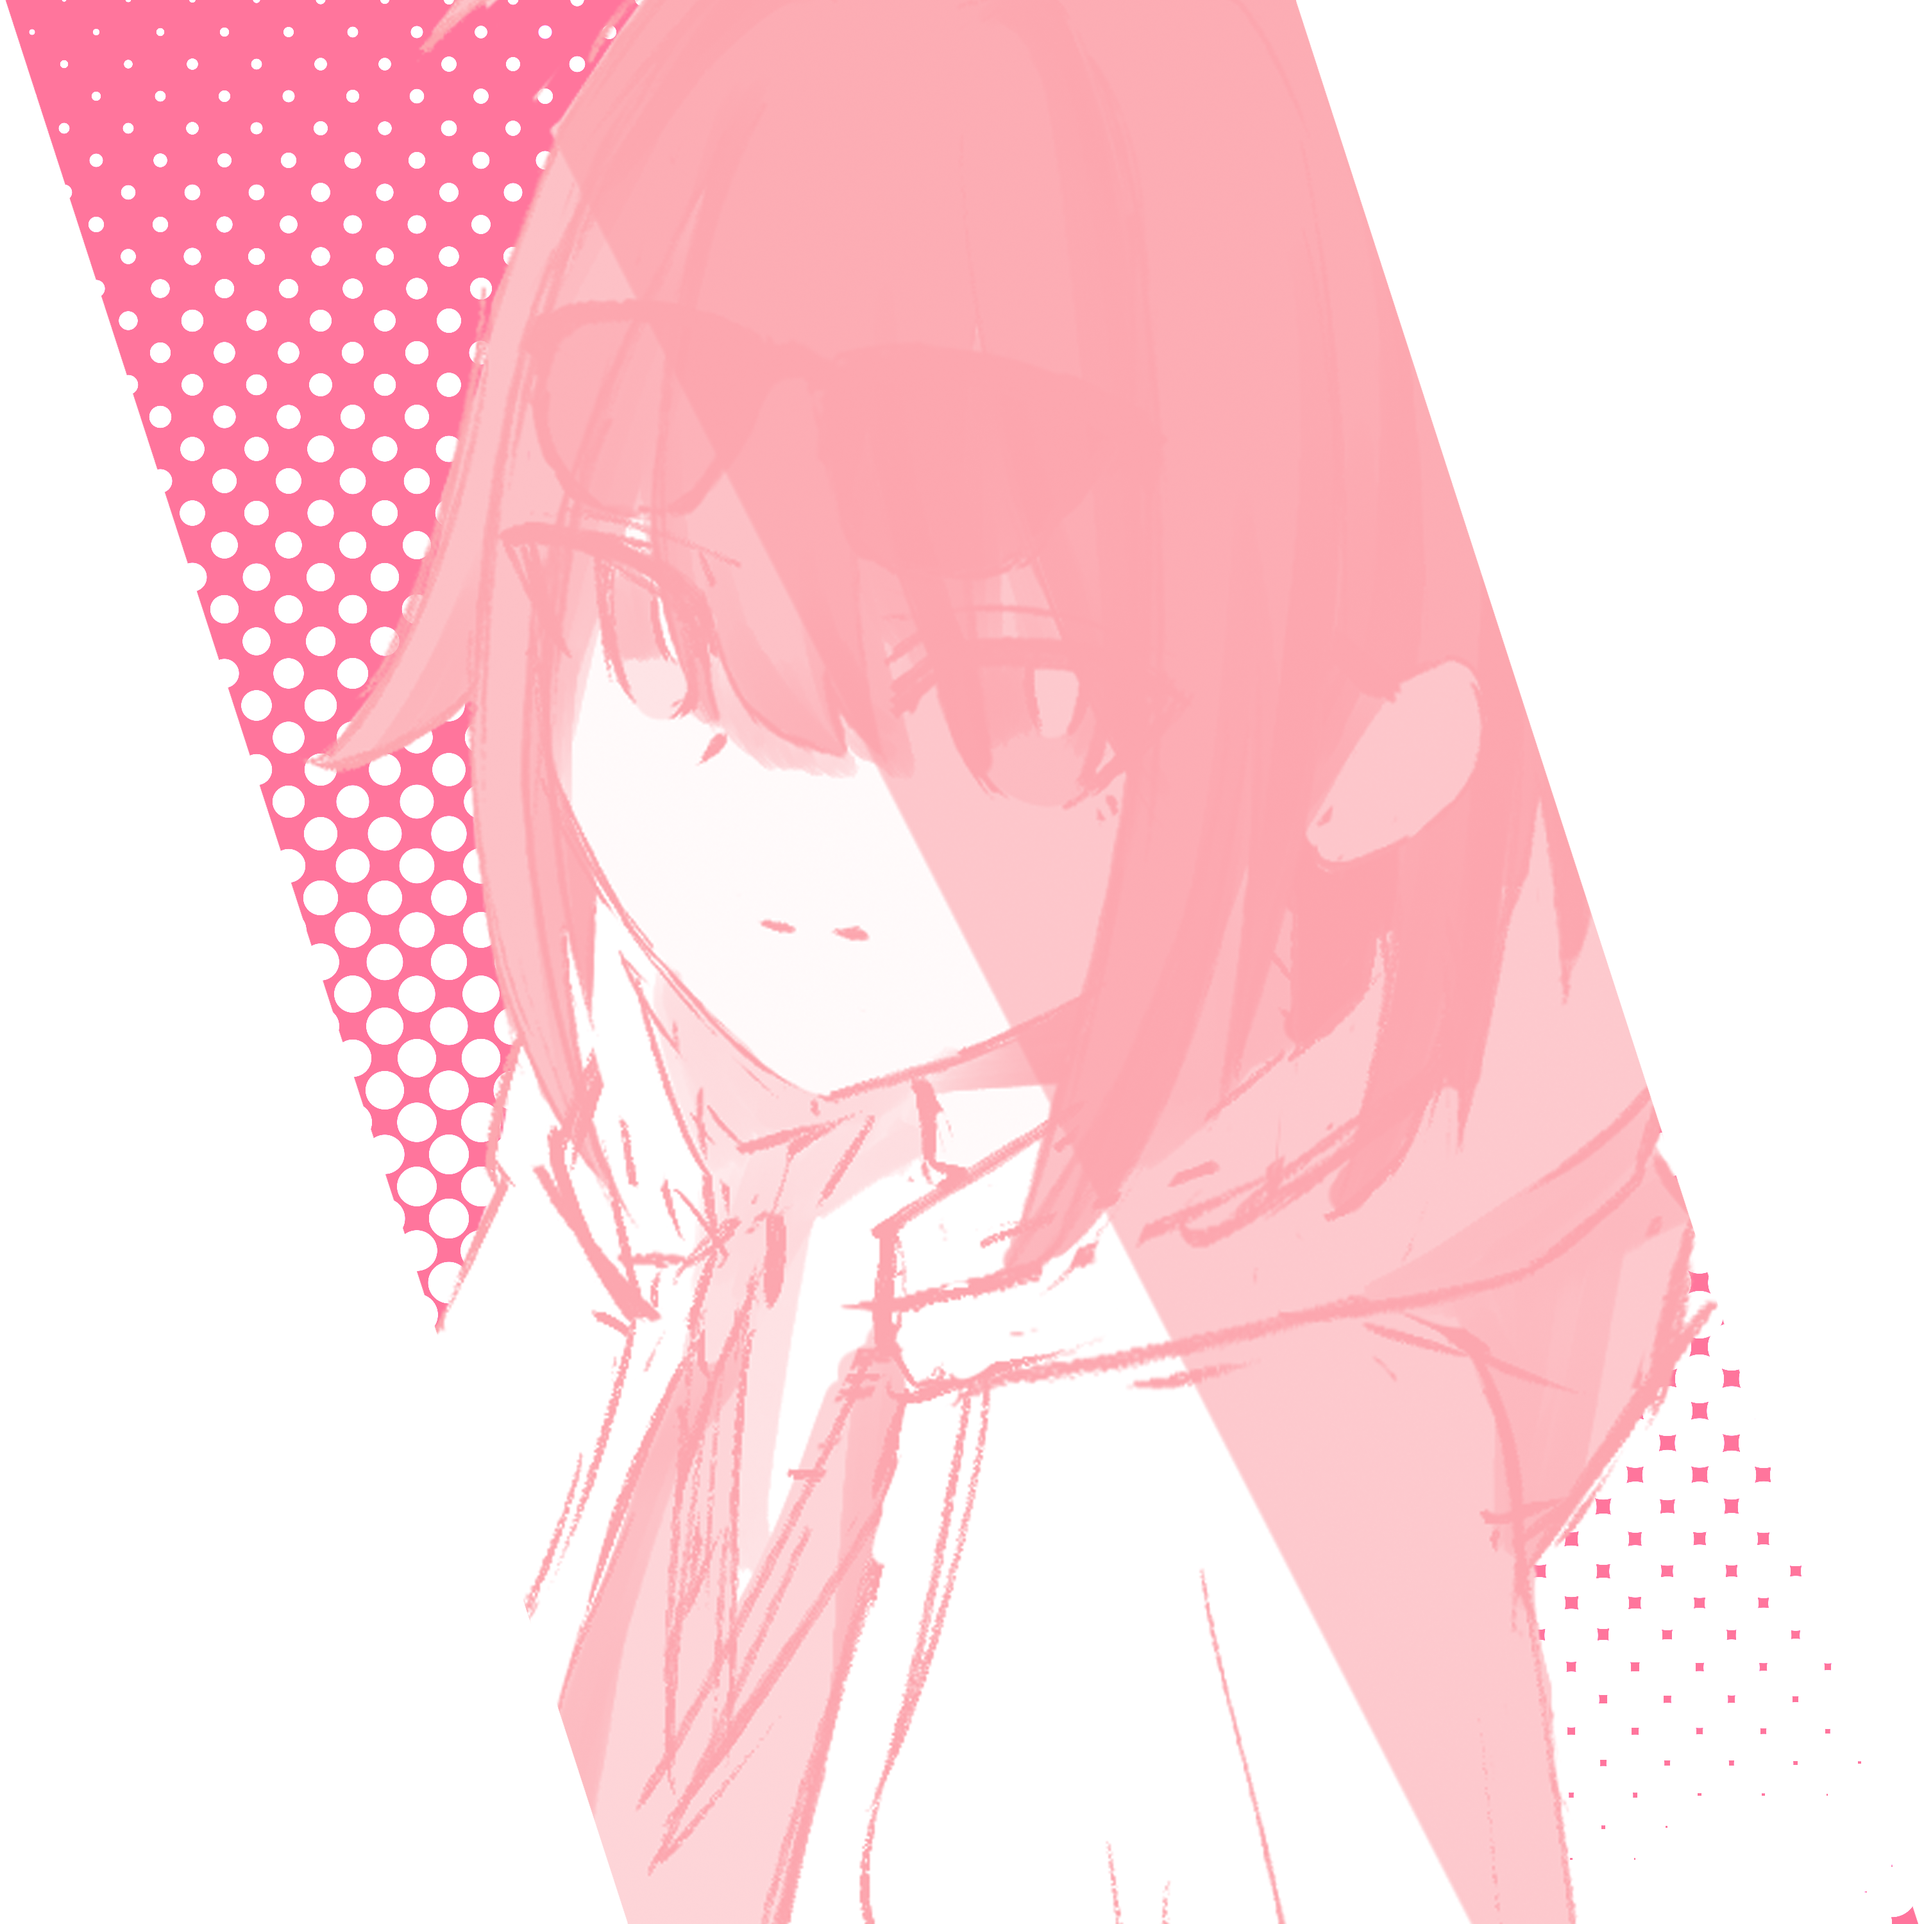
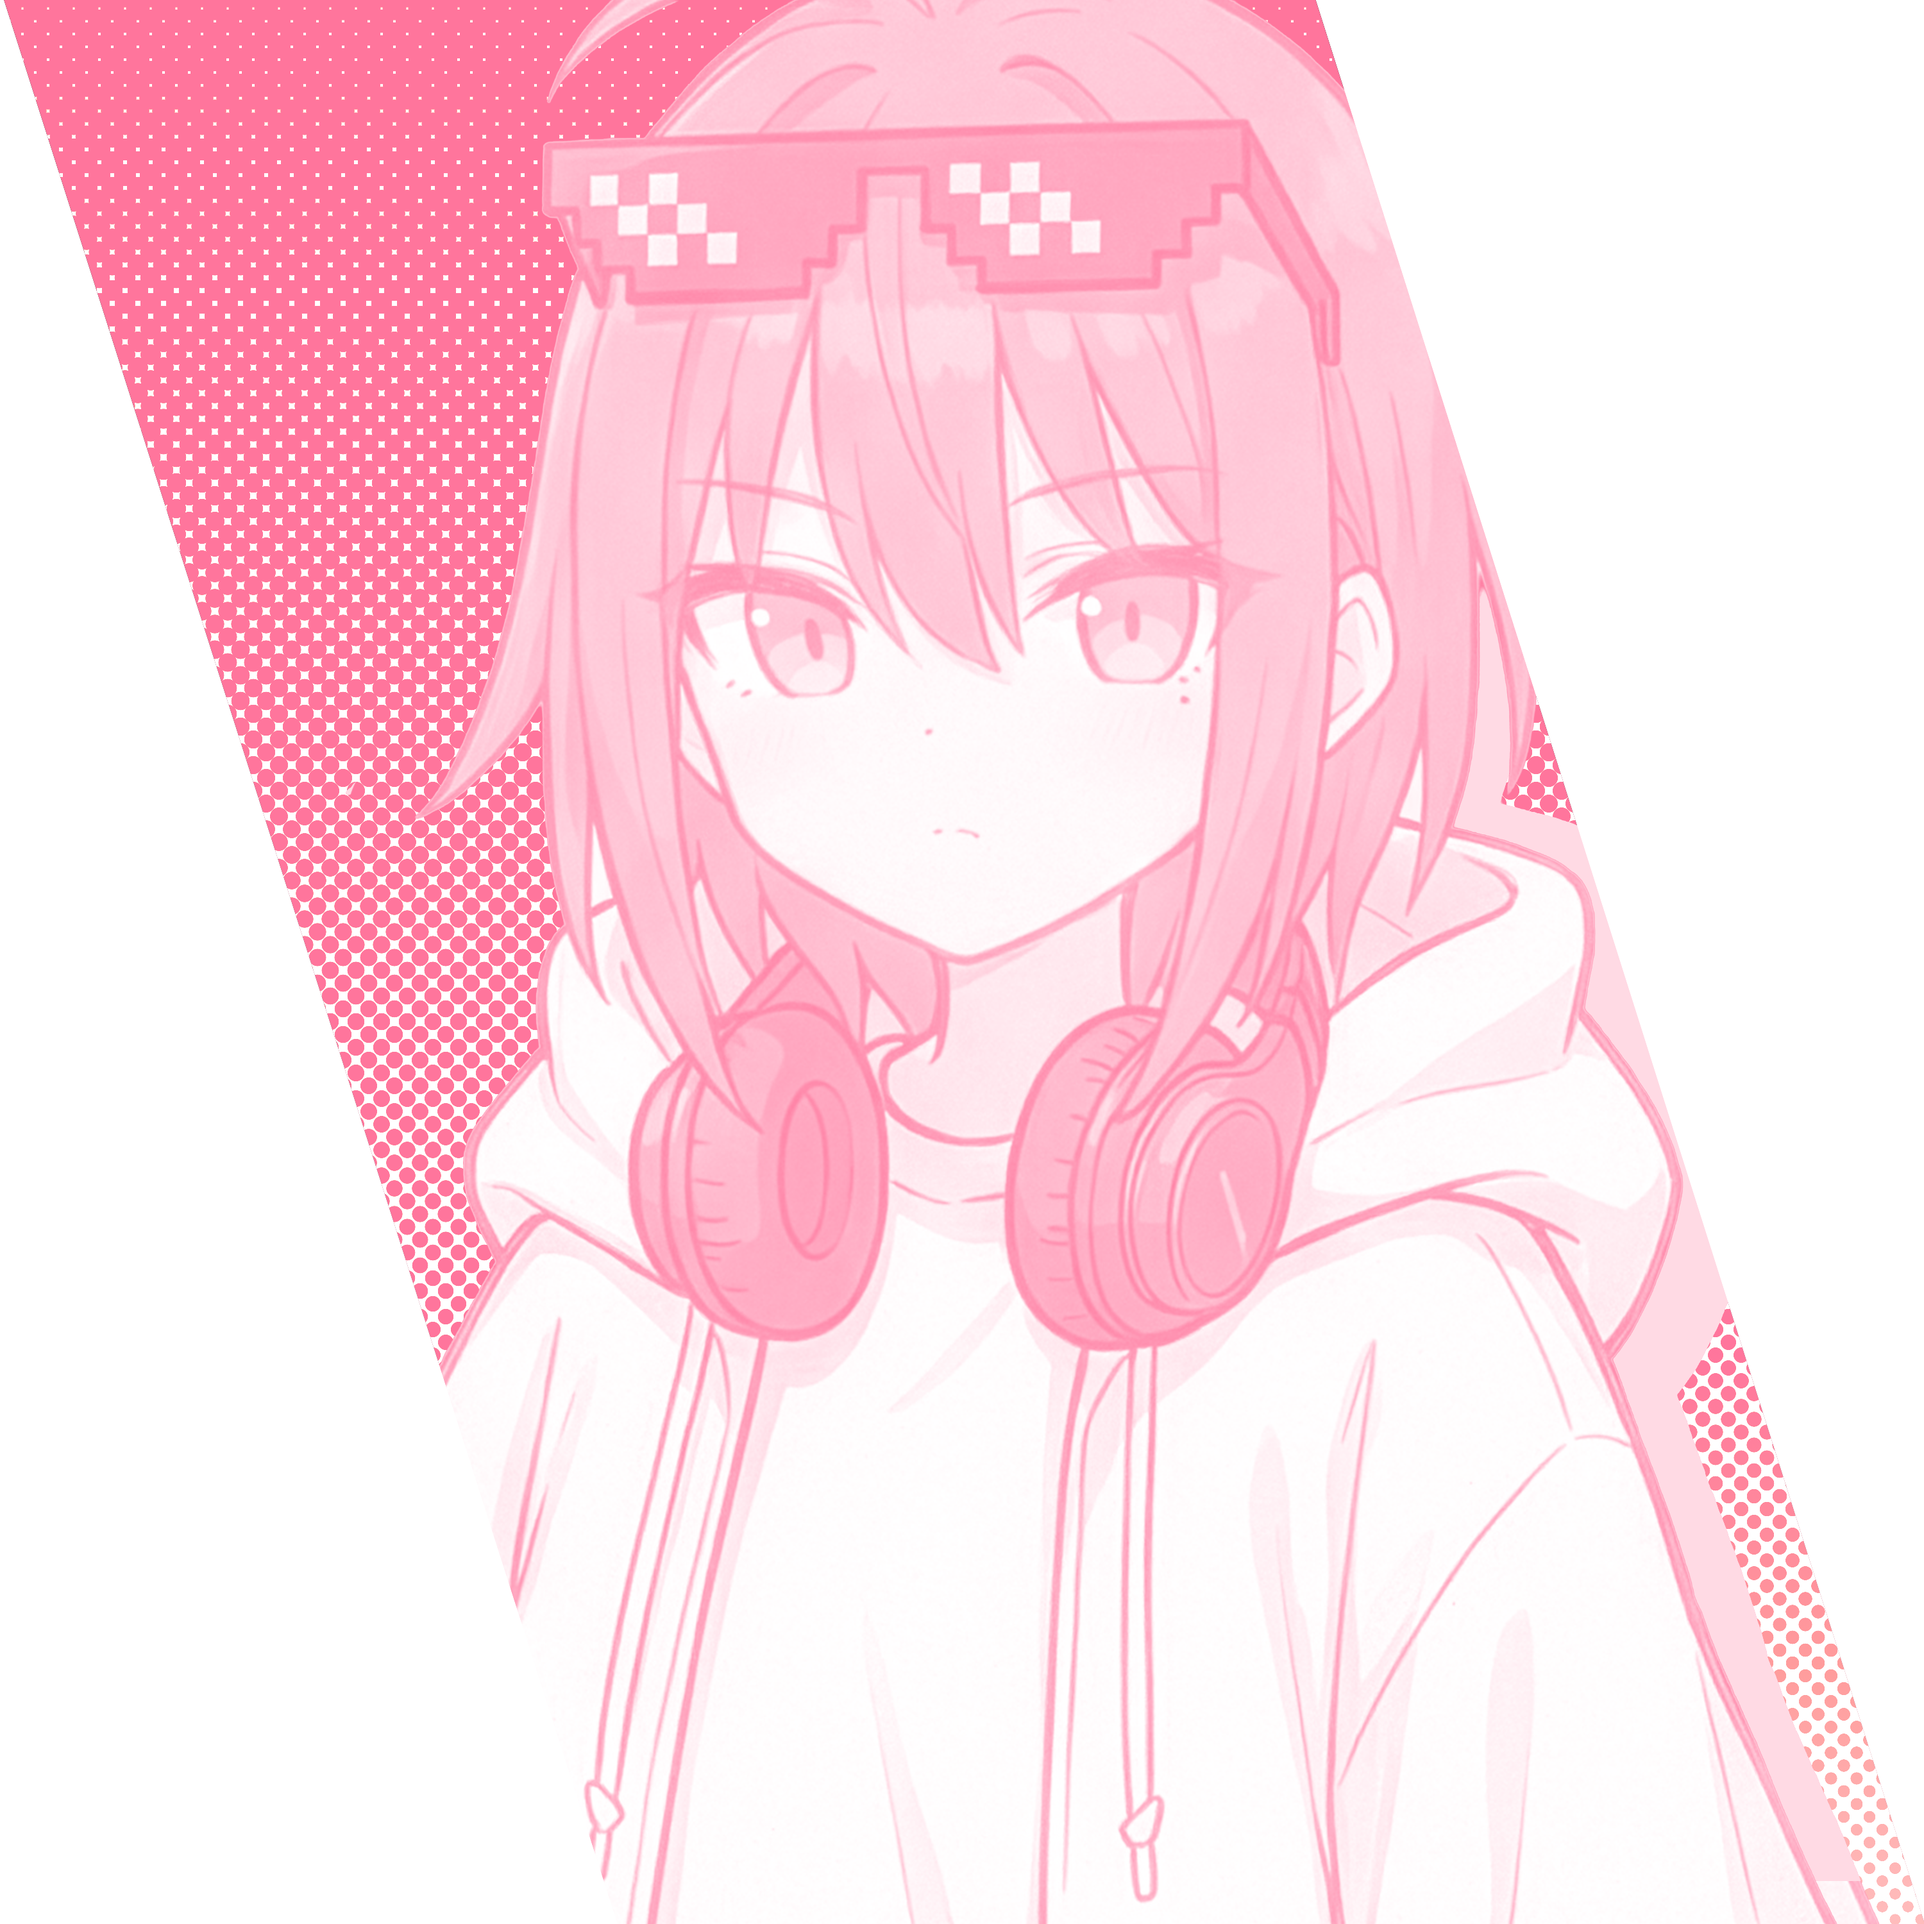
chore

diff --git a/app/pages/about.vue b/app/pages/about.vue
@@ -53,7 +53,7 @@ useJsonld([
         <div class="min-h-screen overflow-hidden">
 
             <div class="bg-primary text-white relative w-full max-w-none overflow-hidden md:overflow-visible dot-overlay">
-                <div class="absolute top-0 left-0 w-full h-full overflow-hidden pointer-events-none bg-[url(/images/about/bg.png)] bg-cover opacity-50 contrast-110" />
+                <div class="absolute top-0 left-0 w-full h-full overflow-hidden pointer-events-none bg-[url(/images/about/bg.png)] bg-cover opacity-90 contrast-110" />
                 <AboutHeadBackground />
                 
                 <!-- 右側のエッジ文字 -->
@@ -67,10 +67,10 @@ useJsonld([
                         <!-- ヘッダ 情報 -->
                         <div class="z-30 relative">
                             <div class="mb-32">
-                                <p class="text-sm md:text-base font-light mb-2">応用睡眠技術者</p>
+                                <p class="mobile-text-outline text-sm md:text-base font-light mb-2">応用睡眠技術者</p>
                                 <div class="w-16 h-0.5 bg-white mb-4"></div>
-                                <h1 class="text-5xl md:text-6xl font-bold mb-2">月出里 まい</h1>
-                                <p class="text-sm tracking-widest mb-16">SUDACHI MAI</p>
+                                <h1 class="mobile-text-outline text-5xl md:text-6xl font-bold mb-2">月出里 まい</h1>
+                                <p class="mobile-text-outline text-sm tracking-widest mb-16">SUDACHI MAI</p>
 
                                 <!-- Socials -->
                                 <div class="grid grid-cols-1 space-y-2 mb-8 relative z-30">
@@ -90,16 +90,16 @@ useJsonld([
                 
                 <div class="absolute w-full h-full left-0 pointer-events-none">
                     <!-- 背景画像 -->
-                    <div class="absolute top-0 z-20 w-full h-full opacity-40 -translate-y-full">
+                    <div class="absolute top-0 z-20 w-full h-full opacity-40 -translate-y-full overflow-hidden">
                         <NuxtImg src="/images/about/mai-bg.png" format="webp" alt="doted mai" fetchpriority="high"
-                            class="w-full h-full object-cover object-center" loading="eager" />
+                            class="w-full h-full object-cover object-center pointer-events-none" loading="eager" />
                     </div>
 
-                    <!-- 立ち絵後 グロー -->
+                    <!-- 立ち絵 -->
                     <div class="absolute w-full top-0 z-20 -translate-y-[75%] md:-translate-y-2/3 scale-80 md:scale-100 -right-0 md:right-[15%]">
                         <div class="character-glow absolute w-full h-full top-0 right-0 z-40 bg-white/10 blur-3xl rounded-full transform scale-150"></div>
                         <NuxtImg src="/images/about/mai.png" format="webp" alt="Mai Sudachi" fetchpriority="high"
-                            class="object-contain max-h-[800px] relative z-[60] ml-auto" loading="eager"
+                            class="object-contain max-h-[800px] relative z-[60] ml-auto drop-shadow-[10px_-5px_0_#ffbdcf]" loading="eager"
                             decoding="async" />
                     </div>
                 </div>
@@ -146,7 +146,7 @@ useJsonld([
                                         <p class="text-xs tracking-widest font-light text-gray-500">SOCIALS</p>
                                         <div class="flex flex-wrap gap-2">
                                             <div v-for="social in socials" :key="social.name">
-                                                <MqAppLink class="text-xs" :to="social.url" rel="me">
+                                                <MqAppLink class="text-xs" :to="social.url" rel="me noopener noreferrer">
                                                     {{ social.name }}
                                                     <template #icon>
                                                         <Icon :name="social.icon" class="size-3" />
@@ -258,6 +258,19 @@ useJsonld([
     height: 100%;
[1 lines of base64/hex data omitted]
     background-color: rgba(0, 0, 0, 0.1);
+    background-color: rgba(0, 0, 0, 0.1);
     pointer-events: none;
+}
+
+.mobile-text-outline {
+    color: #fff;
+    -webkit-text-stroke: 2px #ff759c;
+    text-stroke: 2px #ff759c;
+    paint-order: stroke fill;
+}
+@media (min-width: 768px) {
+    .mobile-text-outline {
+        text-shadow: none;
+    }
 }
 </style>

diff --git a/app/components/mq/AppLink.vue b/app/components/mq/AppLink.vue
@@ -4,15 +4,17 @@ type AppLinkProps = {
   rel?: string
 };
 
-defineProps<AppLinkProps>();
+const props = defineProps<AppLinkProps>();
 
+const isExternal = computed(() => !props.to.startsWith('/') && !props.to.startsWith('#'));
+const computedRel = computed(() => props.rel ?? (isExternal.value ? 'noopener noreferrer' : undefined));
 </script>
 
 <template>
   <!-- 外部リンクの場合は別タブ -->
   <NuxtLink v-if="to" :to="to"
    :target="(to.startsWith('/') || to.startsWith('#'))? '_self' : '_blank'"
-   :rel="rel"
+   :rel="computedRel"
     class="relative mt-0.5 flex items-center gap-2 rounded-3xl px-5 py-1.5 transition-colors before:absolute before:inset-0 before:-z-10 before:m-auto before:scale-0 before:rounded-full before:bg-primary before:transition-transform after:absolute after:inset-0 after:rounded-3xl after:border-2 after:border-current after:transition-colors hover:text-white hover:before:scale-100 hover:after:border-transparent md:px-6 md:py-2">
     <slot />
     <slot name="icon">

diff --git a/app/components/MenuContainer.vue b/app/components/MenuContainer.vue
@@ -115,7 +115,7 @@ if (import.meta.client) {
                     :key="social.url" 
                     :style="{ transitionDelay: isVisible ? `${0.3 + (index as unknown as number) * 0.15}s` : '0s' }"
                 >
-                    <NuxtLink class="text-white cursor-react-sml" :to="social.url" target="_blank" :aria-label="social.name" rel="me">
+                    <NuxtLink class="text-white cursor-react-sml" :to="social.url" target="_blank" :aria-label="social.name" rel="me noopener noreferrer">
                         <Icon :name="social.icon" class="size-5" />
                     </NuxtLink>
                 </li> 

diff --git a/app/components/SiteFooter.vue b/app/components/SiteFooter.vue
@@ -32,7 +32,7 @@ const menu = config.value.footer.menu;
             :title="item.name"
             :to="item.url"
             :aria-label="`${item.name}でフォローする`"
-            rel="me"
+            rel="me noopener noreferrer"
             class="relative flex size-8 items-center justify-center rounded before:absolute before:size-full before:rounded before:bg-current before:opacity-0 before:transition-opacity hover:before:opacity-20 hover:text-primary"
             target="_blank"
           >
